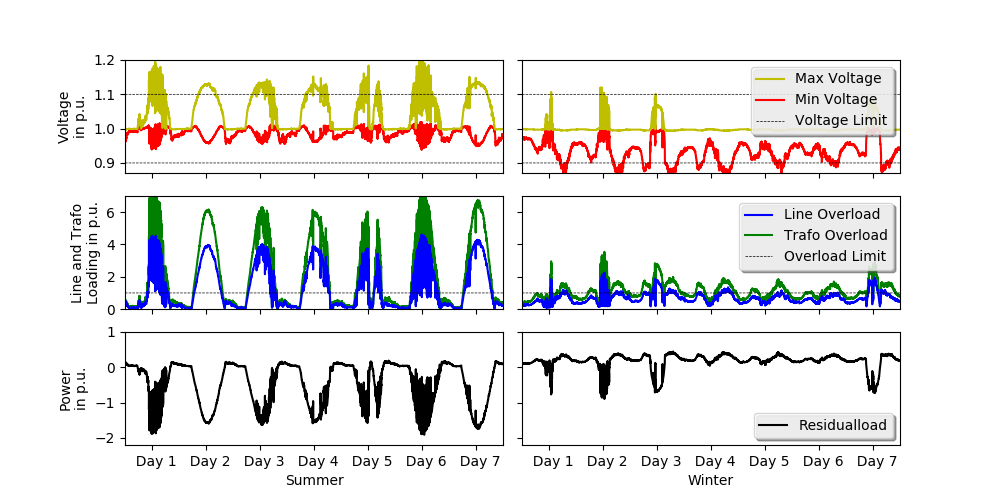
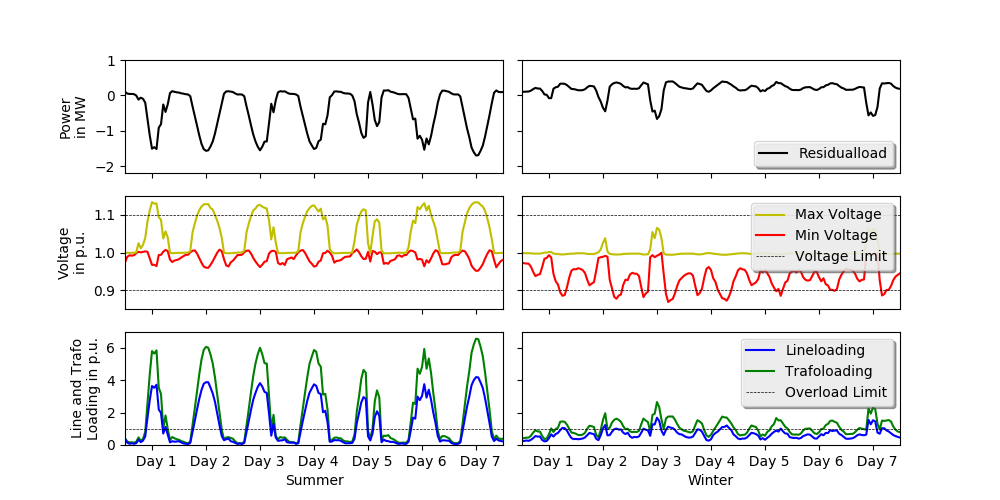
Add new README

diff --git a/src/tools/evaluation/Evaluation.py b/src/tools/evaluation/Evaluation.py
@@ -352,6 +352,11 @@ def plot_grid_issus_over_time(eva, save_fig_dir=None):
   ll = eva['ll']
   tl = eva['tl']
 
+  power = shorted_data(power, 'H')
+  v = shorted_data(v, 'H')
+  ll = shorted_data(ll, 'H')
+  tl = shorted_data(tl, 'H')
+
   line_v_o = power*0 + 1.1
   line_v_u = power*0 + .9
   line_lt = power*0 + 1
@@ -361,7 +366,7 @@ def plot_grid_issus_over_time(eva, save_fig_dir=None):
   ll_max = ll.T.max().T
   tl_max = tl.T.max().T
 
-  fig, (ax1, ax2, ax3) = plt.subplots(3)
+  fig, (ax3, ax1, ax2) = plt.subplots(3)
   fig.suptitle(' ')
   l1 = ax1.plot(v_min, 'r')[0]
   ax1.plot(line_v_u, '--k', lw=.5)
@@ -372,7 +377,7 @@ def plot_grid_issus_over_time(eva, save_fig_dir=None):
   l_limit2 = ax2.plot(line_lt, '--k', lw=.5)[0]
   l5 = ax3.plot(power, 'k')[0]
   ax1.legend(handles=[l2, l1, l_limit], labels=['Max Voltage', 'Min Voltage', 'Voltage Limit'] ,loc="upper right")
-  ax2.legend(handles=[l4, l3, l_limit2], labels=['Line Overload', 'Trafo Overload', 'Overload Limit'] ,loc="upper right")
+  ax2.legend(handles=[l4, l3, l_limit2], labels=['Lineloading', 'Trafoloading', 'Overload Limit'] ,loc="upper right")
   ax3.legend(handles=[l5], labels=['Residualload'] ,loc="lower right")
   ax1.set_xlabel('Time')
   ax1.set_ylabel('Voltage\nin p.u.')
@@ -404,6 +409,18 @@ def plot_grid_issus_over_time_subplot(eva_summer, eva_winter, save_fig_dir=None)
   ll_winter = eva_winter['ll']
   tl_winter = eva_winter['tl']
 
+  t_freq_new = 'H'
+
+  power_summer = shorted_data(power_summer, t_freq_new)
+  v_summer = shorted_data(v_summer, t_freq_new)
+  ll_summer = shorted_data(ll_summer, t_freq_new)
+  tl_summer = shorted_data(tl_summer, t_freq_new)
+
+  power_winter = shorted_data(power_winter, t_freq_new)
+  v_winter = shorted_data(v_winter, t_freq_new)
+  ll_winter = shorted_data(ll_winter, t_freq_new)
+  tl_winter = shorted_data(tl_winter, t_freq_new)
+
   line_v_o_winter = power_winter*0 + 1.1
   line_v_u_winter = power_winter*0 + .9
   line_lt_winter = power_winter*0 + 1
@@ -423,9 +440,9 @@ def plot_grid_issus_over_time_subplot(eva_summer, eva_winter, save_fig_dir=None)
   power = [power_summer, power_winter]
 
   fig, ax = plt.subplots(3, 2, figsize=(10,5), sharey = 'row', sharex = 'col', gridspec_kw={'wspace': .05})
-  ax1 = ax[0]
-  ax2 = ax[1]
-  ax3 = ax[2]
+  ax1 = ax[1] # Voltage
+  ax2 = ax[2] # Line and Trafo
+  ax3 = ax[0] # Residualload
   for i in [0, 1]:
     l1 = ax1[i].plot(v_min[i], 'r')[0]
     ax1[i].plot(line_v_u[i], '--k', lw=.5)
@@ -444,17 +461,17 @@ def plot_grid_issus_over_time_subplot(eva_summer, eva_winter, save_fig_dir=None)
     ax2[i].set_xticklabels(['  Day 1', '  Day 2', '  Day 3', '  Day 4', '  Day 5', '  Day 6', '  Day 7'])
     ax3[i].set_xticks([k for k in power[i].index if (k.hour == 12) & (k.minute == 0)])
     ax3[i].set_xticklabels(['  Day 1', '  Day 2', '  Day 3', '  Day 4', '  Day 5', '  Day 6', '  Day 7'])
-    ax1[i].set(xlim=(power[i].index[0], power[i].index[-1]), ylim=(.87, 1.2))
+    ax1[i].set(xlim=(power[i].index[0], power[i].index[-1]), ylim=(.85, 1.15))
     ax2[i].set(xlim=(power[i].index[0], power[i].index[-1]), ylim=(0, 7.0))
     ax3[i].set(xlim=(power[i].index[0], power[i].index[-1]), ylim=(-2.2, 1)) 
-  ax3[0].set_xlabel('Summer')
-  ax3[1].set_xlabel('Winter')
+  ax2[0].set_xlabel('Summer')
+  ax2[1].set_xlabel('Winter')
   ax1[0].set_ylabel('Voltage\nin p.u.')
   ax2[0].set_ylabel('Line and Trafo\nLoading in p.u.')
-  ax3[0].set_ylabel('Power\nin p.u.')
+  ax3[0].set_ylabel('Power\nin MW')
 
   ax1[1].legend(handles=[l2, l1, l_limit], labels=['Max Voltage', 'Min Voltage', 'Voltage Limit'] ,loc="upper right", shadow=True)
-  ax2[1].legend(handles=[l4, l3, l_limit2], labels=['Line Overload', 'Trafo Overload', 'Overload Limit'] ,loc="upper right", shadow=True)
+  ax2[1].legend(handles=[l4, l3, l_limit2], labels=['Lineloading', 'Trafoloading', 'Overload Limit'] ,loc="upper right", shadow=True)
   ax3[1].legend(handles=[l5], labels=['Residualload'] ,loc="lower right", shadow=True)
 
   if save_fig_dir is not None:
@@ -631,6 +648,7 @@ def plot_curtailed_power(eva, save_fig_dir=None):
      plt.savefig(save_fig_dir+'curtailed_PV_power.png')
 
   plot_clustered_stacked([df_winter_load, df_summer_load], ['curtailed','grid-obtained','self-consumed'], ['winter', 'summer'], title='Consumption')
+
   if save_fig_dir is not None:
      plt.savefig(save_fig_dir+'curtailed_Load_power.png')
 

diff --git a/src/main_EVA.py b/src/main_EVA.py
@@ -77,8 +77,6 @@ evaluation.plot_generation_consumption_as_heat_map_overall_eva(eva['s40n9summer'
 
 evaluation.plot_grid_issus_over_power(eva['s40n8winter'], save_fig_dir=save_fig_dir + 'plot_grid_issus_over_power.png')
 
-evaluation.plot_curtailed_power(eva, save_fig_dir=save_fig_dir+'curtailed_power.png')
-
 #evaluation.plot_grid_issus_over_time(eva['s4n9winter'], save_fig_dir+ 'plot_grid_issus_over_time_winter.png')
 #evaluation.plot_grid_issus_over_time(eva['s4n9summer'], save_fig_dir+ 'plot_grid_issus_over_time_summer.png')
 evaluation.plot_grid_issus_over_time_subplot(eva['s40n8summer'], eva['s40n8winter'], save_fig_dir+ 'plot_grid_issus_over_time_subplot_s40n8.png')

diff --git a/src/tools/evaluation/EvaluationSingleCase.py b/src/tools/evaluation/EvaluationSingleCase.py
@@ -94,11 +94,11 @@ class EvaluationSingleCase():
     trafo_p = self.trafo_p
     curtail_p = self.curtailed_power
 
-    if self.time_scope['t_freq'] != 'D':
-      power = self.shorted_data(power, 'H')
-      losses = self.shorted_data(losses, 'H')
-      trafo_p = self.shorted_data(trafo_p, 'H')
-      curtail_p = self.shorted_data(curtail_p, 'H')
+    if self.time_scope['t_freq'] != '1D':
+      power = self.shorted_data(power, '1H')
+      losses = self.shorted_data(losses, '1H')
+      trafo_p = self.shorted_data(trafo_p, '1H')
+      curtail_p = self.shorted_data(curtail_p, '1H')
       f = 1
     else:
       f = 24
